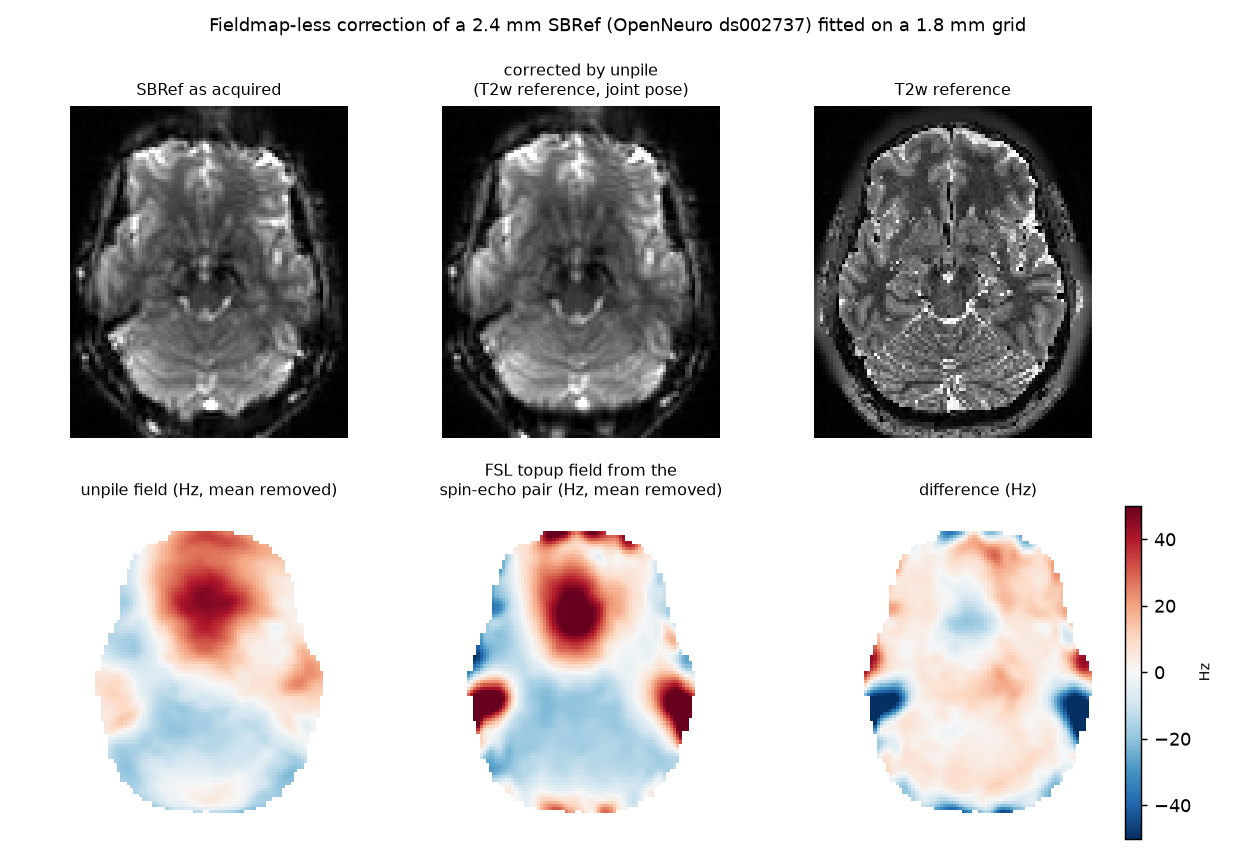
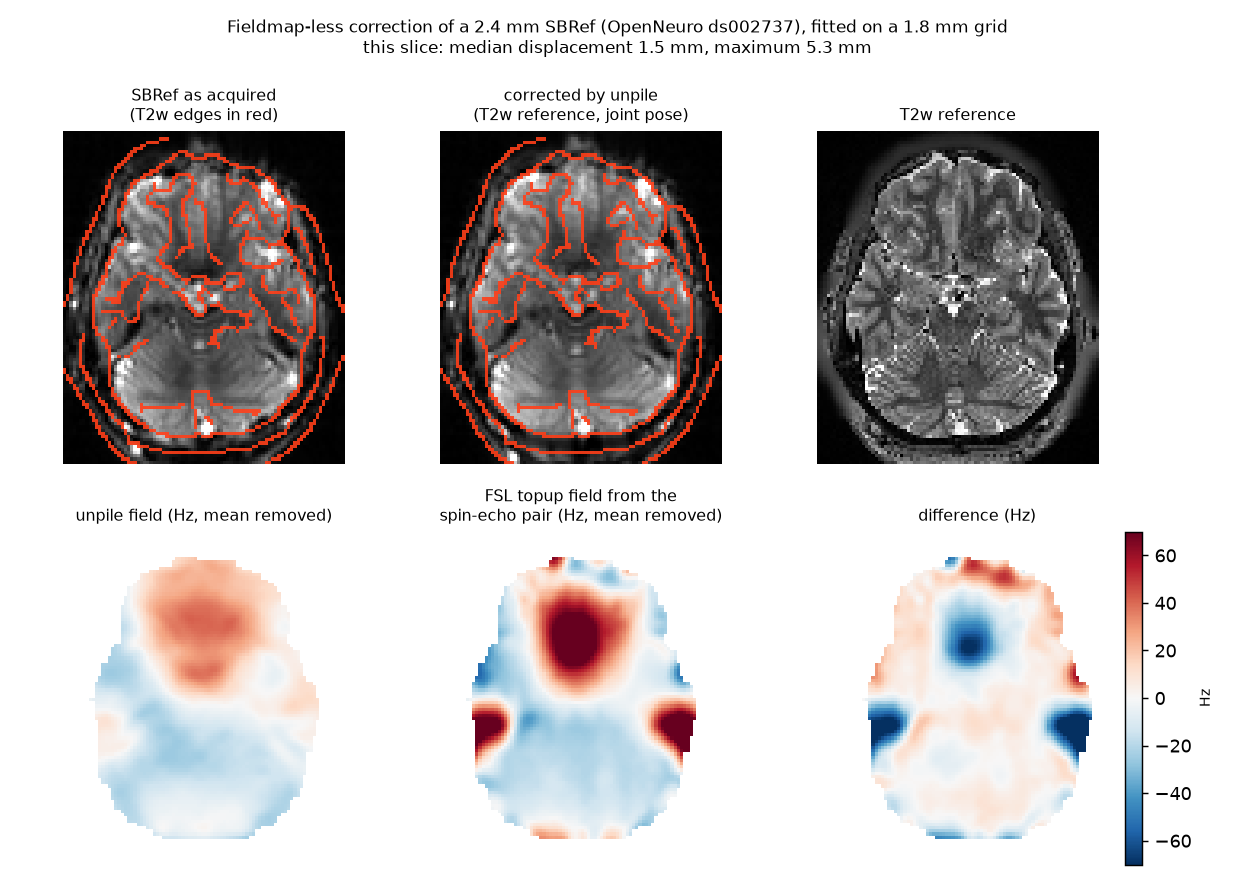
Docs: show the SBRef correction with T2w edges overlaid and a flicker, on a slice where the field is large

diff --git a/docs/tools/make_figures.py b/docs/tools/make_figures.py
@@ -93,31 +93,76 @@ def gre_refinement(fx, out):
     plt.close(fig)
 
 
+def edges(a2d, sigma=2.0):
+    """Canny edges of a display slice (the strong ones only), for overlaying the reference's anatomy on the EPI panels."""
+    from skimage.feature import canny
+    lo, hi = np.percentile(a2d, [2, 98])
+    x = np.clip((a2d - lo) / max(hi - lo, 1e-6), 0, 1)
+    return canny(x, sigma=sigma, low_threshold=0.15, high_threshold=0.35)
+
+
+def overlay_edges(ax, e2d, aspect, color=(1.0, 0.25, 0.1)):
+    rgba = np.zeros(e2d.shape + (4,))
+    rgba[e2d] = (*color, 0.9)
+    ax.imshow(rgba, origin="lower", aspect=aspect, interpolation="nearest")
+
+
+def best_slice(disp, mask):
+    """The axial slice with the largest mean displacement among those that show most of the brain."""
+    area = mask.sum(axis=(0, 1))
+    cands = [(np.abs(disp[:, :, k][mask[:, :, k]]).mean(), k) for k in range(mask.shape[2]) if area[k] > 0.88 * area.max()]
+    return max(cands)[1]
+
+
 def fieldmapless_sbref(real, real_out, out):
     sb, img = vol(f"{real}/sbref_ap.nii.gz")
     corr, _ = vol(f"{real_out}/corrected.nii.gz")
     t2, _ = vol(f"{real}/t2w.nii.gz")
     field, _ = vol(f"{real_out}/field_hz.nii.gz")
     topup, _ = vol(f"{real}/se_topup_field_hz.nii.gz")
+    disp, _ = vol(f"{real_out}/disp_pe_mm.nii.gz")
     mask = vol(f"{real}/brain_mask.nii.gz")[0] > 0
-    z = centre_slice(mask) - 12
+    z = best_slice(disp, mask)
     aspect = img.header.get_zooms()[1] / img.header.get_zooms()[0]
     m2 = axial(mask, z)
+    e = crop(edges(axial(t2, z)), m2, 8)
     field = field - field[mask].mean()  # the fit pins the in-brain mean (the pose carries the DC); compare structure
     topup = topup - topup[mask].mean()
-    fig, axes = plt.subplots(2, 3, figsize=(9.5, 6.6))
-    for ax, a, t in zip(axes[0], [sb, corr, t2], ["SBRef as acquired", "corrected by unpile\n(T2w reference, joint pose)", "T2w reference"]):
+    fig, axes = plt.subplots(2, 3, figsize=(9.5, 6.8))
+    for ax, a, t in zip(axes[0], [sb, corr, t2],
+                        ["SBRef as acquired\n(T2w edges in red)", "corrected by unpile\n(T2w reference, joint pose)", "T2w reference"]):
         panel(ax, crop(axial(a, z), m2, 8), t, aspect=aspect)
-    hz = 50
+        if a is not t2:
+            overlay_edges(ax, e, aspect)
+    hz = 70
     for ax, a, t in zip(axes[1], [field, topup, field - topup],
                         ["unpile field (Hz, mean removed)", "FSL topup field from the\nspin-echo pair (Hz, mean removed)", "difference (Hz)"]):
         im = panel(ax, crop(axial(masked(a, mask), z), m2, 8), t, hz=hz, aspect=aspect)
     cb = fig.colorbar(im, ax=axes[1, 2], fraction=0.046, pad=0.02)
     cb.set_label("Hz", fontsize=8)
-    fig.suptitle("Fieldmap-less correction of a 2.4 mm SBRef (OpenNeuro ds002737) fitted on a 1.8 mm grid", fontsize=10)
+    d = np.abs(disp[:, :, z][m2])
+    fig.suptitle(f"Fieldmap-less correction of a 2.4 mm SBRef (OpenNeuro ds002737), fitted on a 1.8 mm grid\n"
+                 f"this slice: median displacement {np.median(d):.1f} mm, maximum {d.max():.1f} mm", fontsize=9.5)
     fig.tight_layout()
     fig.savefig(f"{out}/fieldmapless_sbref.png", dpi=130)
     plt.close(fig)
+    # a two-frame flicker of the same slice: the shift is easier to see in motion than side by side
+    frames = []
+    for a, t in [(sb, "as acquired"), (corr, "corrected")]:
+        f2, ax = plt.subplots(figsize=(4.2, 4.6))
+        panel(ax, crop(axial(a, z), m2, 8), t, aspect=aspect)
+        overlay_edges(ax, e, aspect)
+        f2.tight_layout(pad=0.3)
+        f2.canvas.draw()
+        frames.append(np.asarray(f2.canvas.buffer_rgba())[..., :3].copy())
+        plt.close(f2)
+    try:
+        import imageio.v2 as imageio
+        imageio.mimsave(f"{out}/fieldmapless_sbref_flicker.gif", frames, duration=1.0, loop=0)
+    except ImportError:
+        from PIL import Image
+        ims = [Image.fromarray(f) for f in frames]
+        ims[0].save(f"{out}/fieldmapless_sbref_flicker.gif", save_all=True, append_images=ims[1:], duration=1000, loop=0)
 
 
 def resolution_sweep(out):

diff --git a/docs/quickstart.md b/docs/quickstart.md
@@ -60,12 +60,14 @@ On real data the T2w fit works best on a grid finer than the EPI; {doc}`user/fie
 rule and the numbers, and the figure below is a real 2.4 mm single-band reference from OpenNeuro.
 
 ```{figure} _static/fieldmapless_sbref.png
-:alt: A single-band reference before and after fieldmap-less correction next to its T2w, and the estimated field next to a topup field from a spin-echo pair.
+:alt: A single-band reference before and after fieldmap-less correction with the T2w's edges overlaid, the T2w, and the estimated field next to a topup field from a spin-echo pair.
 
 A 2.4 mm SBRef (OpenNeuro ds002737) corrected against the subject's T2w with a joint pose, fitted on
-a 1.8 mm grid. Bottom: unpile's field next to FSL topup's field from the spin-echo pair of the same
-session, both with their mean removed. They agree at 0.74 correlation; the temporal lobes are where
-they differ.
+a 1.8 mm grid, with the T2w's edges drawn on both EPI panels: the frontal and temporal cortex moves
+onto them. Bottom: unpile's field next to FSL topup's field from the spin-echo pair of the same
+session, both with their mean removed. The shapes agree (0.74 correlation) but unpile recovers
+about half the amplitude in the frontal and temporal hot spots, which is what the T2w path's slope
+of 0.5 in {doc}`user/fieldmapless` means.
 ```
 
 ## Apply the correction with ANTs

diff --git a/docs/user/fieldmapless.md b/docs/user/fieldmapless.md
@@ -68,7 +68,15 @@ same class as SyN-based fieldmap-less correction, and it is at its best when it 
 SynB0 field and sharpens it, or when the EPI itself is T2-weighted.
 
 ```{figure} ../_static/fieldmapless_sbref.png
-:alt: SBRef before and after correction with the T2w, and the field next to a topup field.
+:alt: SBRef before and after correction with the T2w's edges overlaid, and the field next to a topup field.
 
-The ds002737 run from the table.
+The ds002737 run from the table, with the T2w's edges drawn on the EPI panels. The correction moves
+the cortex onto them where the field is moderate; in the frontal and temporal hot spots unpile's
+field has about half of topup's amplitude, so those regions are only partly restored.
+```
+
+```{figure} ../_static/fieldmapless_sbref_flicker.gif
+:alt: The same slice alternating between the acquired and the corrected SBRef.
+
+The same slice alternating between the acquired and the corrected image, one second each.
 ```
